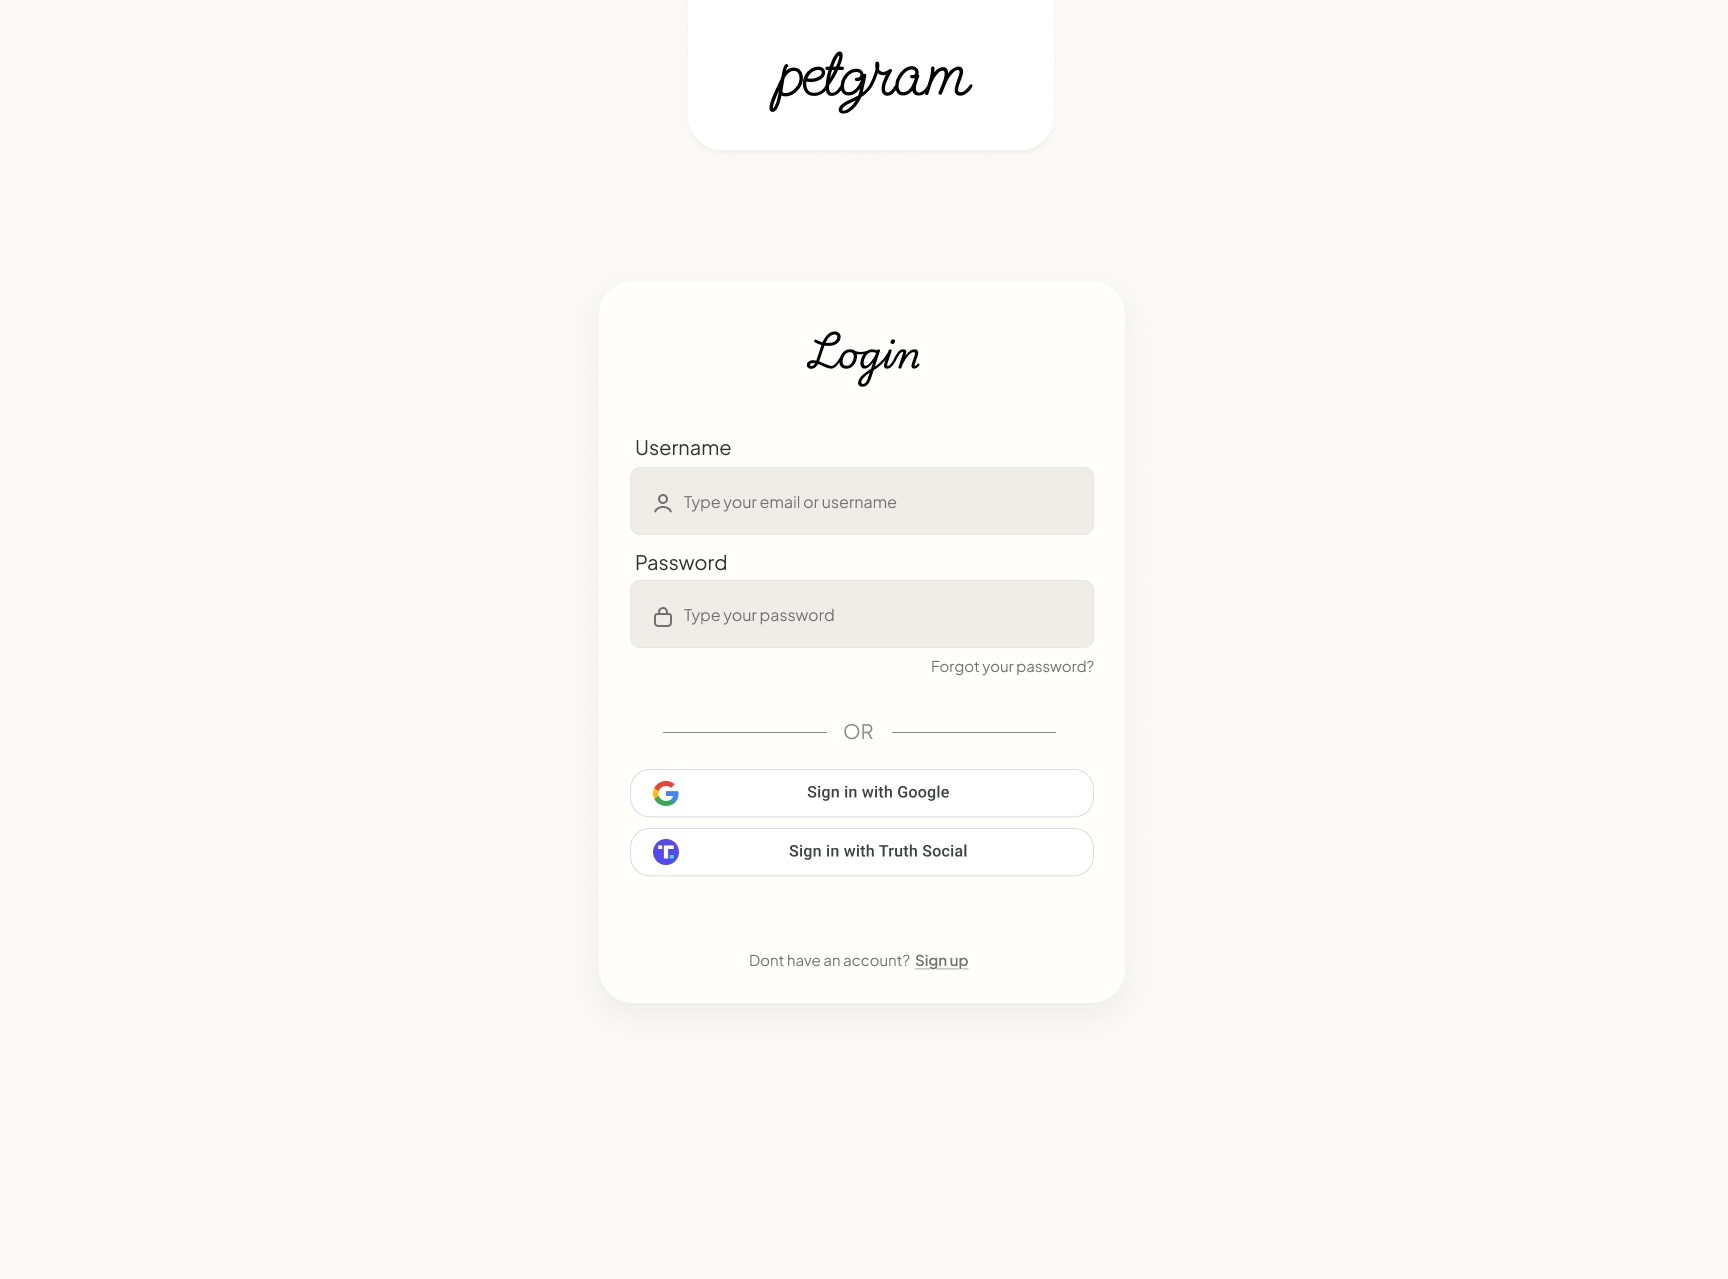
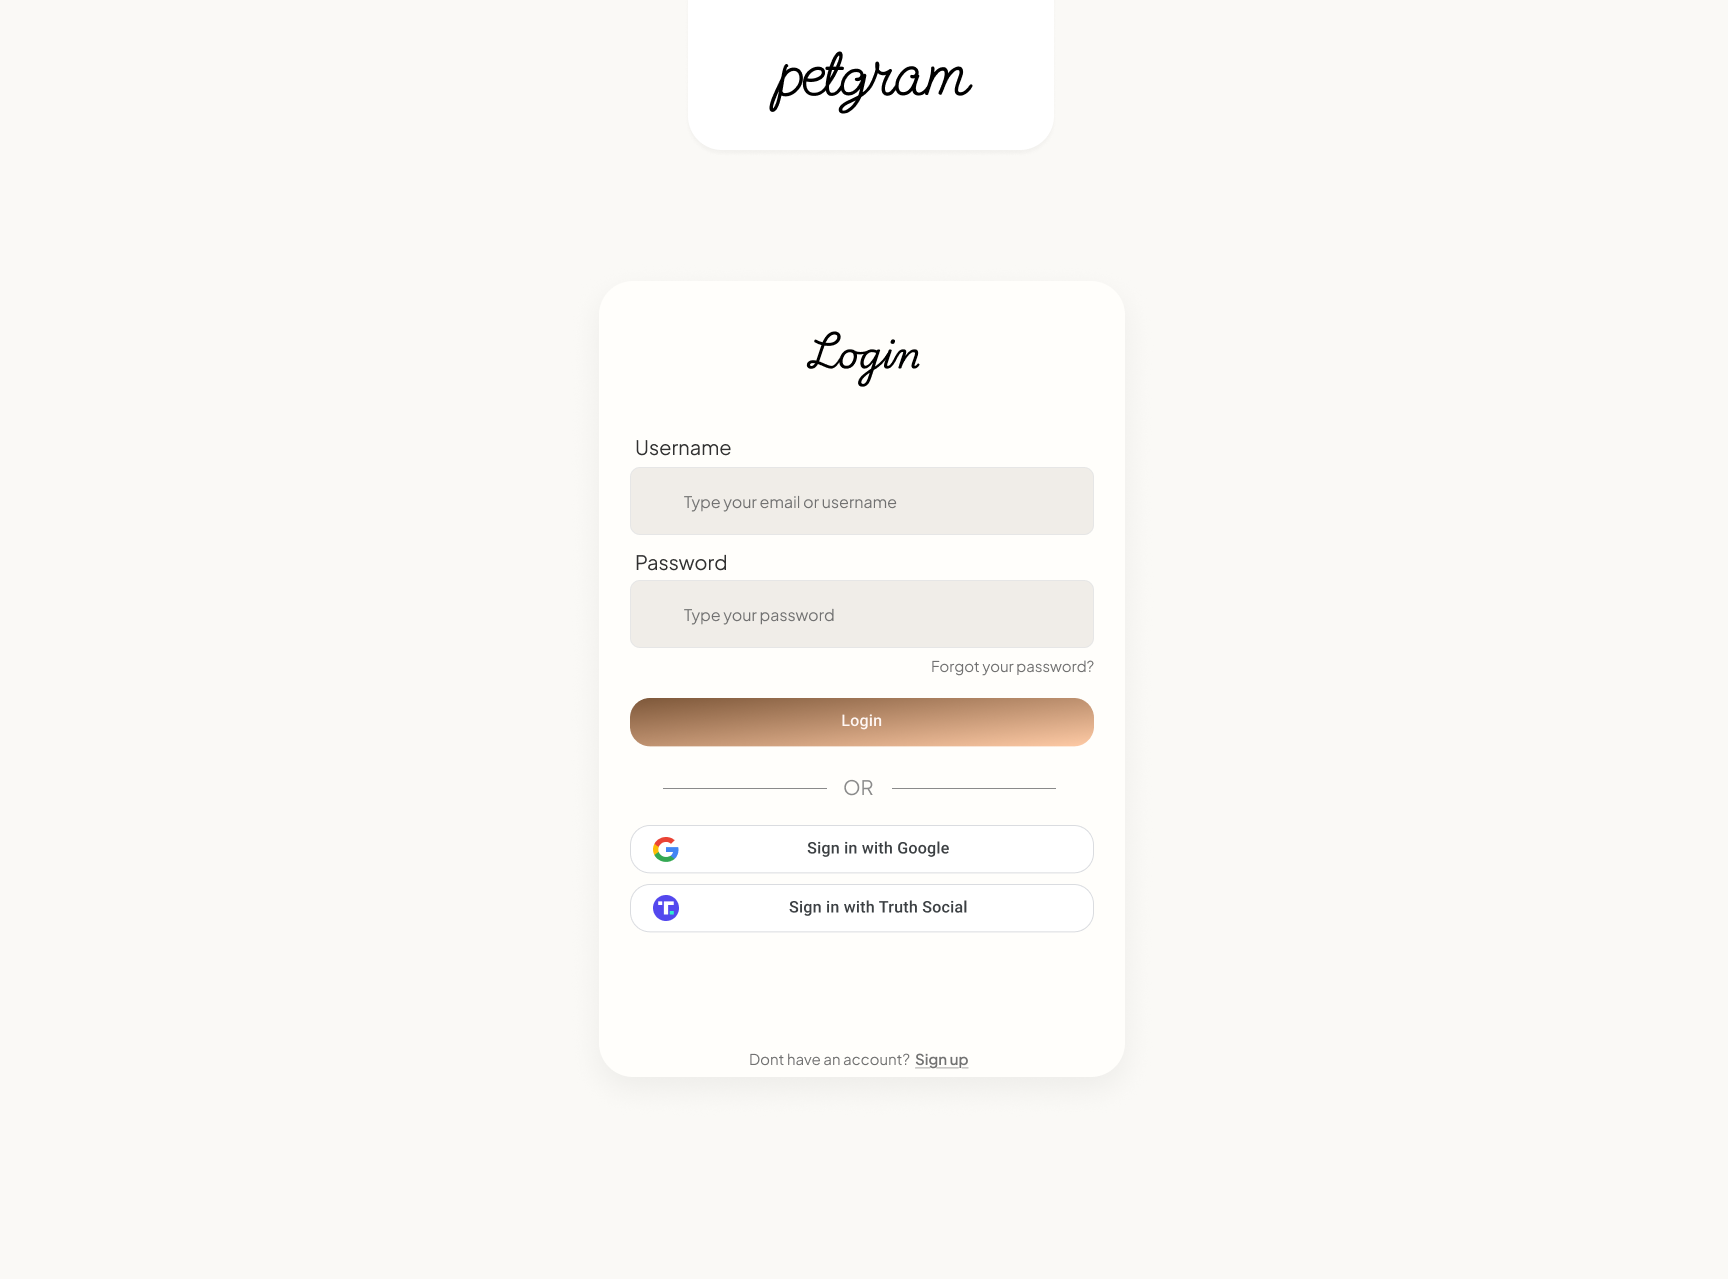
home screen page

diff --git a/frontend/app/routes/home.tsx b/frontend/app/routes/home.tsx
@@ -1,3 +1,89 @@
+import { Link } from 'react-router';
+import logoUrl from '../assets/logo.svg';
+import homeImage from '../assets/home-image.png';
+
 export default function Home() {
-	return <p>Home</p>;
+	const bg = '#FAF9F6';
+	const accentStart = '#7D5739';
+	const accentEnd = '#FECAA5';
+
+	return (
+		<main style={{ background: bg }} className='min-h-screen flex flex-col'>
+			<header
+				className='w-full flex items-center justify-center rounded-xl overflow-hidden shadow-lg'
+				style={{ height: '20vh' }}
+			>
+				<img src={logoUrl} alt='Petgram' className='h-22' />
+			</header>
+
+			<section className='w-full p-4' style={{ height: '80vh' }}>
+				<div className='h-full px-6 2xl:container mx-auto'>
+					<div className='h-full flex flex-col md:flex-row gap-6 items-stretch'>
+						<div
+							className='md:w-2/3 rounded-xl overflow-hidden shadow-lg relative flex items-center'
+							style={{
+								backgroundImage: `url(${homeImage})`,
+								backgroundSize: 'cover',
+								backgroundPosition: 'center',
+							}}
+						>
+							<div className='absolute inset-0 bg-black/30' />
+							<div className='relative z-10 w-full p-8 flex items-center justify-center'>
+								<p className='text-white text-center text-xl md:text-2xl lg:text-3xl font-semibold max-w-2xl'>
+									Community for pet owners and animal lovers —
+									share, discover and organize photos and
+									short videos of your pets!
+								</p>
+							</div>
+						</div>
+
+						<div
+							className='md:w-1/3 flex items-center justify-center'
+							id='start-now'
+						>
+							<div className='bg-[#FFFEFB] rounded-[34px] px-8 pt-8 pb-4 shadow-[0_12px_32px_rgba(48,51,48,0.06)] w-full max-w-[550px] min-h-[550px] flex'>
+								<div className='w-full flex flex-col justify-between gap-1'>
+									<div className='empty'></div>
+									<div className='text-center text-[36px] leading-10 font-extrabold tracking-[-0.9px] text-[#313131] pt-3'>
+										Welcome to your pet community
+									</div>
+
+									<div className='flex flex-col gap-4'>
+										<Link
+											to='/users/login'
+											className='h-[48px] rounded-[20px] bg-gradient-to-br from-[#7D5739] to-[#FECAA5] text-[#FFF7F4] text-base font-medium tracking-[0.25px] flex items-center justify-center shadow-sm'
+										>
+											Login
+										</Link>
+
+										<div className='flex items-center gap-4 text-[#8A8A8A] text-xl font-normal justify-center py-1'>
+											<span className='h-px flex-1 bg-[#8A8A8A]' />
+											<span className='leading-none'>
+												OR
+											</span>
+											<span className='h-px flex-1 bg-[#8A8A8A]' />
+										</div>
+
+										<Link
+											to='/users/register'
+											className='h-[48px] rounded-[20px] bg-gradient-to-br from-[#7D5739] to-[#FECAA5] text-[#FFF7F4] text-base font-medium tracking-[0.25px] flex items-center justify-center shadow-sm'
+										>
+											Register
+										</Link>
+									</div>
+
+									<div className='empty'></div>
+									<p className='text-center text-[15px] leading-[19px] text-black max-w-[464px] mx-auto pb-1'>
+										By clicking Login or Sign in, you agree
+										to Petgram`s User Agreement, Privacy
+										Policy, and Cookie Policy.
+									</p>
+								</div>
+							</div>
+						</div>
+					</div>
+				</div>
+			</section>
+		</main>
+	);
 }

diff --git a/project_doc.md b/project_doc.md
@@ -717,7 +717,38 @@ Uzupełnieniem palety jest skala neutralnych szarości. Barwy te zostały przezn
 
 Całościowo schemat kolorów Petgram można uznać za stonowany i naturalny. Nie służy on przyciąganiu uwagi za wszelką cenę, lecz tworzeniu środowiska, w którym użytkownik może komfortowo oglądać i publikować treści związane ze zwierzętami.
 
-Poniżej znajduje się opisana powyżej paleta barw razem z kodami poszczególnych kolorów.
+Poniżej znajduje się opisana powyżej paleta barw razem z kodami poszczególnych kolorów:
+**Kolor tła (Background Color)**
+
+- **FAF9F6**
+
+**Kolor bazowy (Base Color)**
+
+- **7D5739**
+
+**Dodatkowe wyróżniające kolory sekcji (Additional Section Colors)**
+
+- **F0EDE8**
+- **F4F4F0**
+
+**Kolory tagów oraz akcentów (Tag and Accent Colors)**
+
+- **FF8887**
+- **FECAA5**
+- **FEAEA5**
+- **C8F17A**
+
+**Kolory tekstu (Text Colors)**
+
+- **303330**
+- **5D605C**
+- **78716C**
+
+**Skala szarości (Grayscale)**
+
+- **FFFFFF**
+- **F4F4F0**
+- **DCDCDC**
 
 ## 6.4.Projekty kluczowych grafik i ornamentów
 
